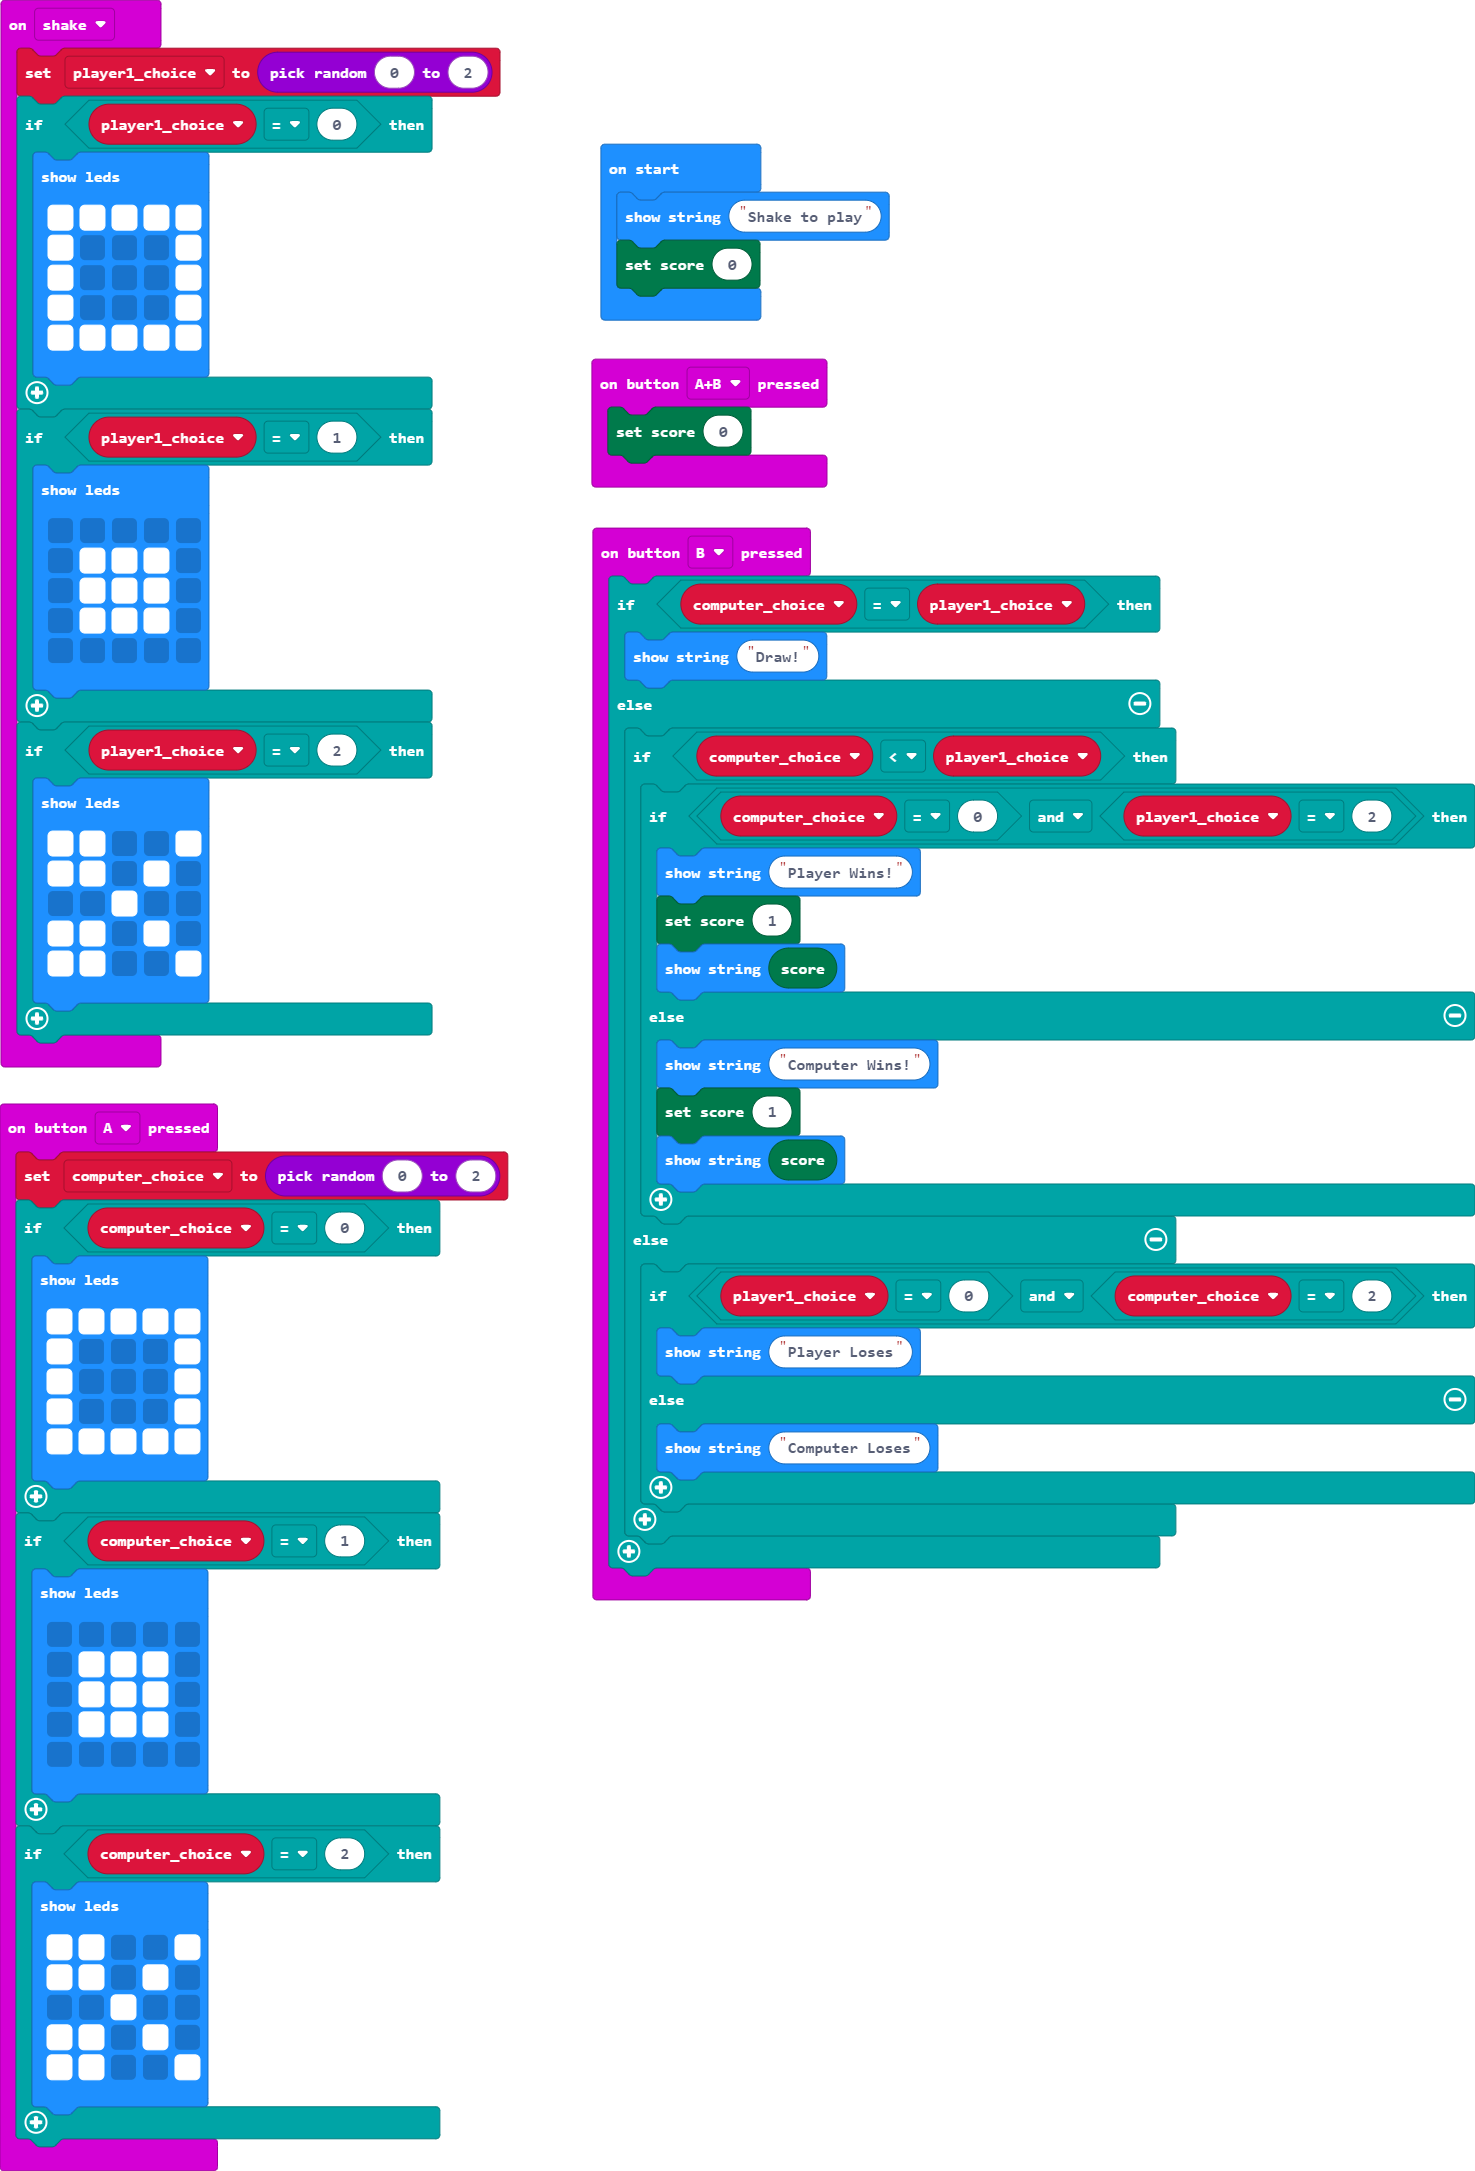
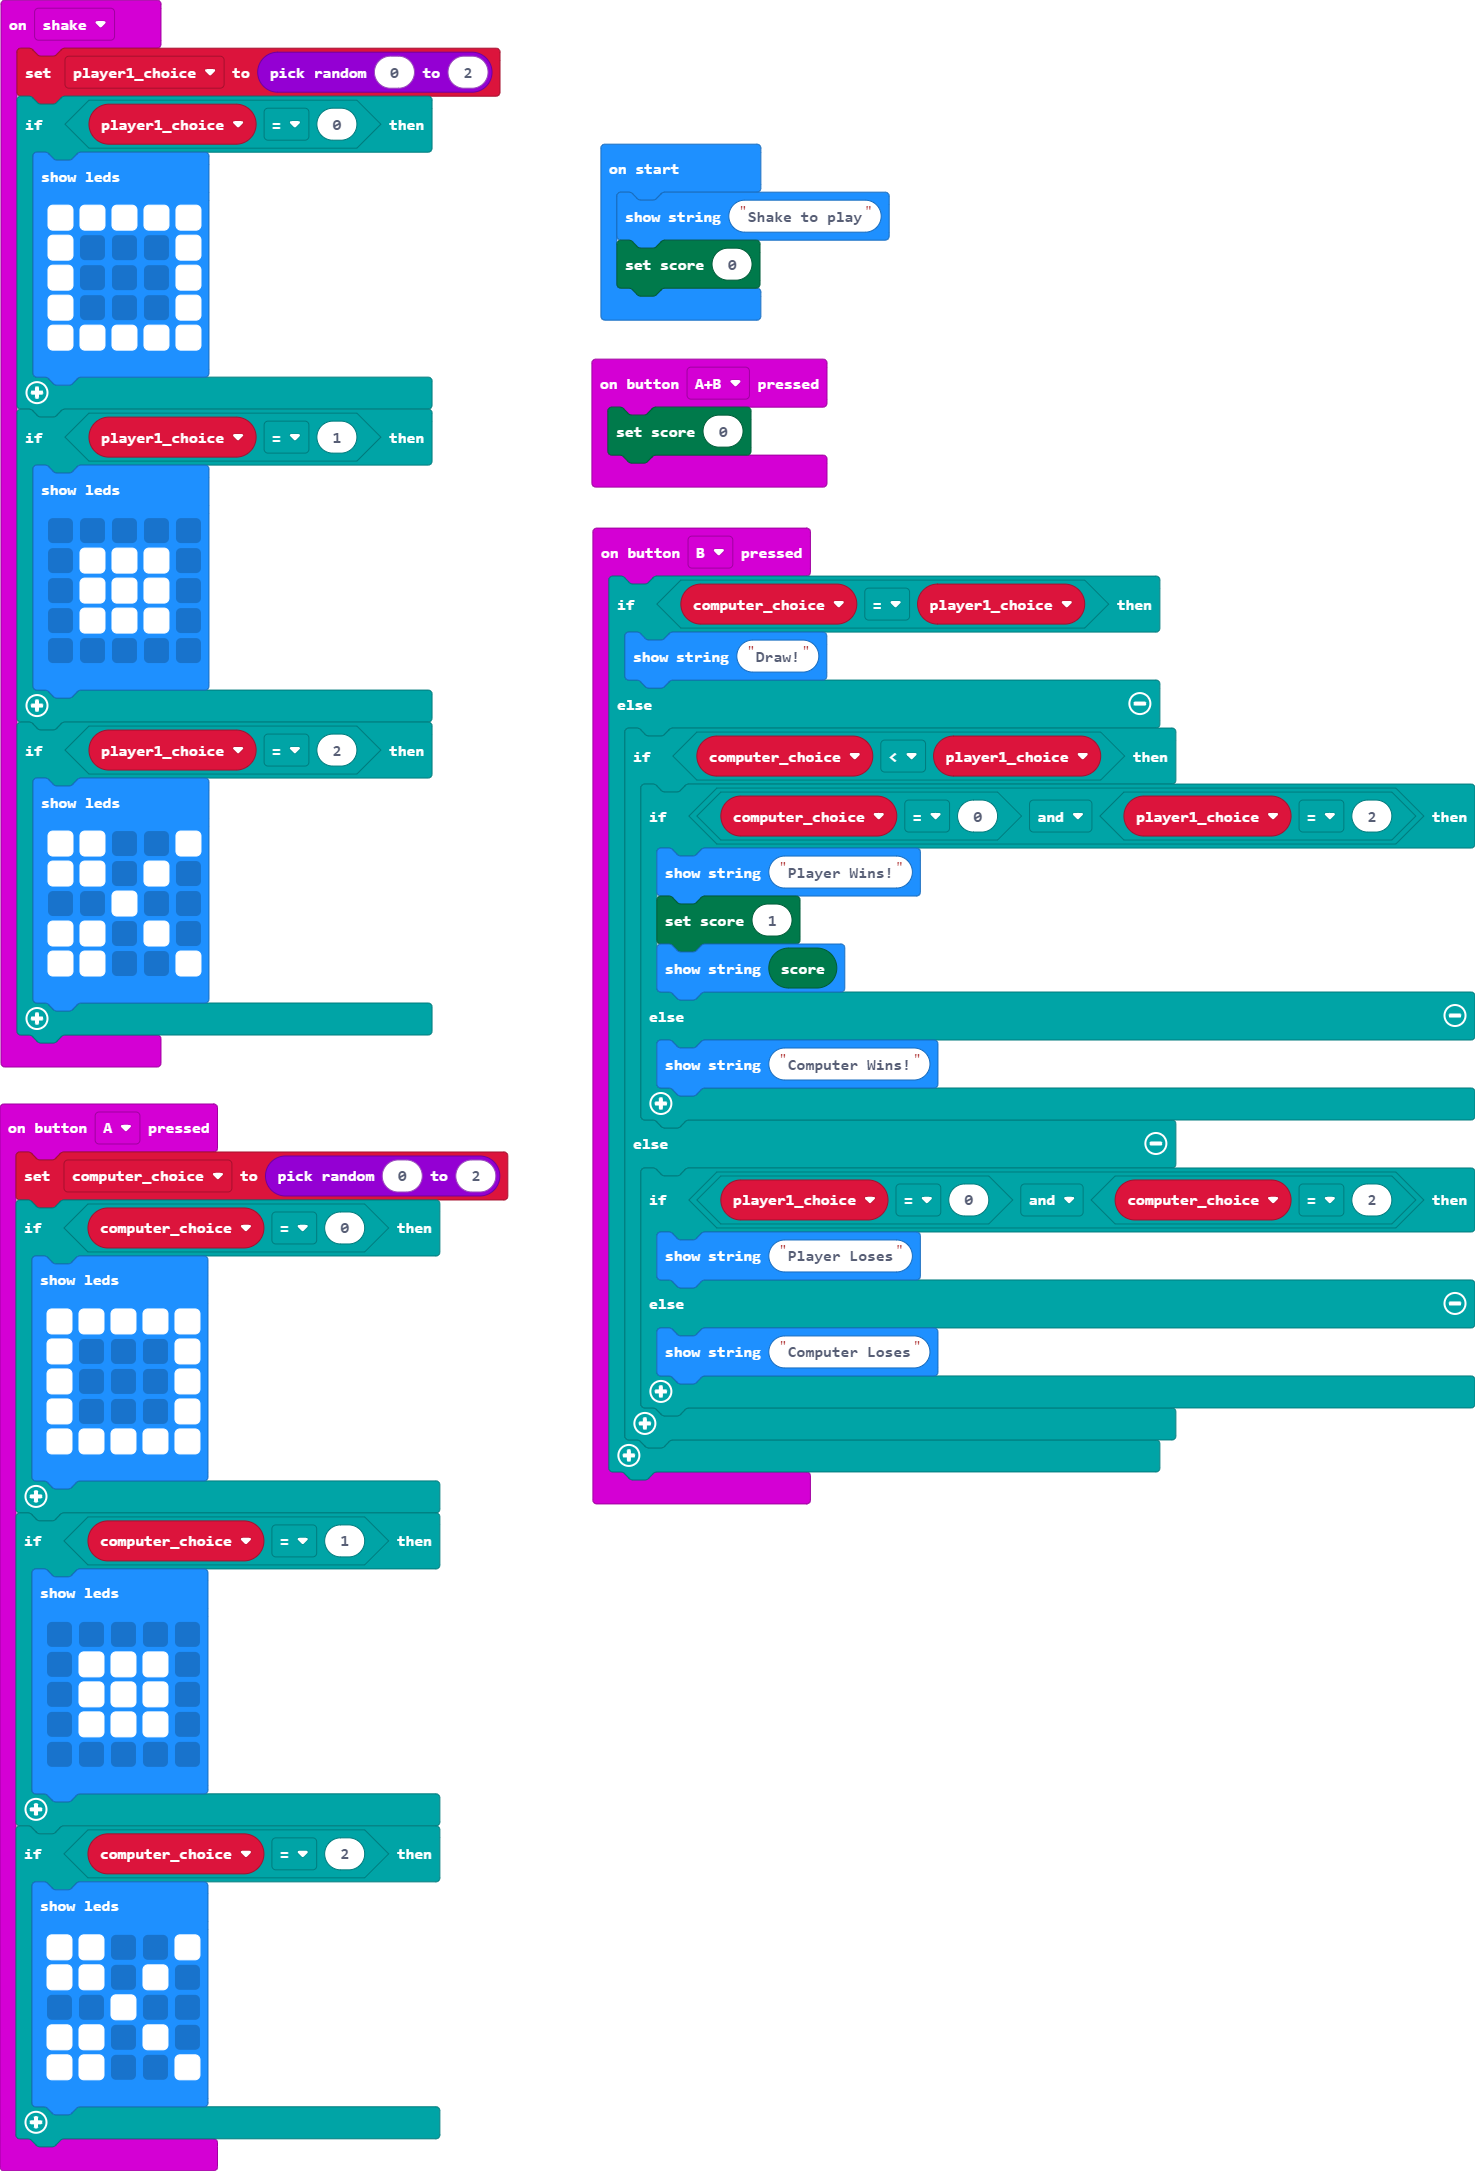
Update main.blocks, main.ts

Changed region(s): [[0.3742, 0.4938, 1.0, 0.7407]]

diff --git a/main.ts b/main.ts
@@ -42,8 +42,6 @@ input.onButtonPressed(Button.B, function () {
                 basic.showString("" + (game.score()))
             } else {
                 basic.showString("Computer Wins!")
-                game.setScore(1)
-                basic.showString("" + (game.score()))
             }
         } else {
             if (player1_choice == 0 && computer_choice == 2) {
